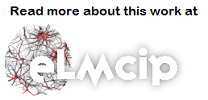
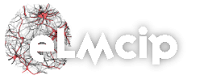
Consolidate buttons and ELMCIP into single action row
- Place Read this work, ELMCIP image, and translation link in one row
- Turn translation link into a styled button matching Read this work
- Replace ELMCIP image with new logo, update alt text
- Remove old separate ELMCIP and translation CSS sections
- Applied site-wide via post layout template

Changed region(s): [[0.0, 0.0506, 0.9519, 0.962]]

diff --git a/_layouts/post.html b/_layouts/post.html
@@ -27,12 +27,26 @@ layout: default
       {{ content }}
     </div>
 
-    {% if page.work_url %}
-    <div class="read-work-btn-wrap">
-      {% if page.lang == 'es' %}
-        <a href="{{ page.work_url }}" class="read-work-btn" target="_blank" rel="noopener">Leer esta obra</a>
-      {% else %}
-        <a href="{{ page.work_url }}" class="read-work-btn" target="_blank" rel="noopener">Read this work</a>
+    {% if page.work_url or page.elmcip_url or page.translation %}
+    <div class="post-actions-row">
+      {% if page.work_url %}
+        {% if page.lang == 'es' %}
+          <a href="{{ page.work_url }}" class="read-work-btn" target="_blank" rel="noopener">Leer esta obra</a>
+        {% else %}
+          <a href="{{ page.work_url }}" class="read-work-btn" target="_blank" rel="noopener">Read this work</a>
+        {% endif %}
+      {% endif %}
+      {% if page.elmcip_url %}
+        <a href="{{ page.elmcip_url }}" class="elmcip-link" target="_blank" rel="noopener">
+          <img src="{{ '/assets/images/uprm/elmcipthumb.png' | relative_url }}" alt="image of the ELMCIP logo with link to an entry on the piece in the ELMCIP Knowledge Base" loading="lazy">
+        </a>
+      {% endif %}
+      {% if page.translation %}
+        {% if page.lang == 'es' %}
+          <a href="{{ page.translation | relative_url }}" class="translation-btn">Read in English</a>
+        {% else %}
+          <a href="{{ page.translation | relative_url }}" class="translation-btn">Leer en Español</a>
+        {% endif %}
       {% endif %}
     </div>
     {% endif %}
@@ -73,24 +87,6 @@ layout: default
           {% endfor %}
         </span>
       </div>
-      {% endif %}
-    </div>
-    {% endif %}
-
-    {% if page.elmcip_url %}
-    <div class="elmcip-link-wrap">
-      <a href="{{ page.elmcip_url }}" target="_blank" rel="noopener">
-        <img src="{{ '/assets/images/uprm/elmcipthumb.png' | relative_url }}" alt="ELMCIP Knowledge Base" loading="lazy">
-      </a>
-    </div>
-    {% endif %}
-
-    {% if page.translation %}
-    <div class="post-translation">
-      {% if page.lang == 'es' %}
-        <a href="{{ page.translation | relative_url }}" class="translation-link">Read in English</a>
-      {% else %}
-        <a href="{{ page.translation | relative_url }}" class="translation-link">Leer en Español</a>
       {% endif %}
     </div>
     {% endif %}

diff --git a/assets/css/style.css b/assets/css/style.css
@@ -313,11 +313,15 @@ img {
   border-radius: 4px;
 }
 
-/* --- Read This Work Button --- */
-.read-work-btn-wrap {
+/* --- Post Actions Row (buttons + ELMCIP) --- */
+.post-actions-row {
   max-width: 780px;
   margin: 2rem auto;
-  text-align: center;
+  display: flex;
+  align-items: center;
+  justify-content: center;
+  gap: 1rem;
+  flex-wrap: wrap;
 }
 
 .read-work-btn {
@@ -338,6 +342,46 @@ img {
 }
 
 .read-work-btn:hover {
+  background: #D9342A;
+  color: #fff !important;
+  transform: translateY(-2px);
+  text-decoration: none !important;
+}
+
+.elmcip-link {
+  display: inline-block;
+  transition: opacity 0.2s;
+}
+
+.elmcip-link:hover {
+  opacity: 0.8;
+  text-decoration: none;
+}
+
+.elmcip-link img {
+  max-height: 50px;
+  width: auto;
+  display: block;
+}
+
+.translation-btn {
+  display: inline-block;
+  padding: 0.85rem 2.5rem;
+  background: #D9342A;
+  color: #fff !important;
+  font-size: 1.1rem;
+  font-weight: 700;
+  border-radius: 6px;
+  text-decoration: none !important;
+  letter-spacing: 0.02em;
+  transition: background 0.2s, transform 0.15s;
+}
+
+.translation-btn:visited {
+  color: #fff !important;
+}
+
+.translation-btn:hover {
   background: #D9342A;
   color: #fff !important;
   transform: translateY(-2px);
@@ -385,49 +429,7 @@ img {
   font-weight: 400;
 }
 
-/* --- ELMCIP Link --- */
-.elmcip-link-wrap {
-  max-width: 780px;
-  margin: 2rem auto;
-  text-align: center;
-}
-
-.elmcip-link-wrap a {
-  display: inline-block;
-  transition: opacity 0.2s;
-}
-
-.elmcip-link-wrap a:hover {
-  opacity: 0.8;
-  text-decoration: none;
-}
-
-.elmcip-link-wrap img {
-  max-height: 60px;
-  width: auto;
-  display: block;
-  margin: 0 auto;
-}
-
-/* --- Translation Link --- */
-.post-translation {
-  max-width: 780px;
-  margin: 2rem auto;
-  padding: 1rem;
-  background: #FFF0F0;
-  border-left: 4px solid #D9342A;
-  border-radius: 0 4px 4px 0;
-}
-
-.translation-link,
-.translation-link:visited {
-  font-weight: 600;
-  color: #D9342A;
-}
-
-.translation-link:hover {
-  color: #D9342A;
-}
+/* (Old ELMCIP and Translation styles removed — now in .post-actions-row) */
 
 /* --- Categories --- */
 .post-categories {
